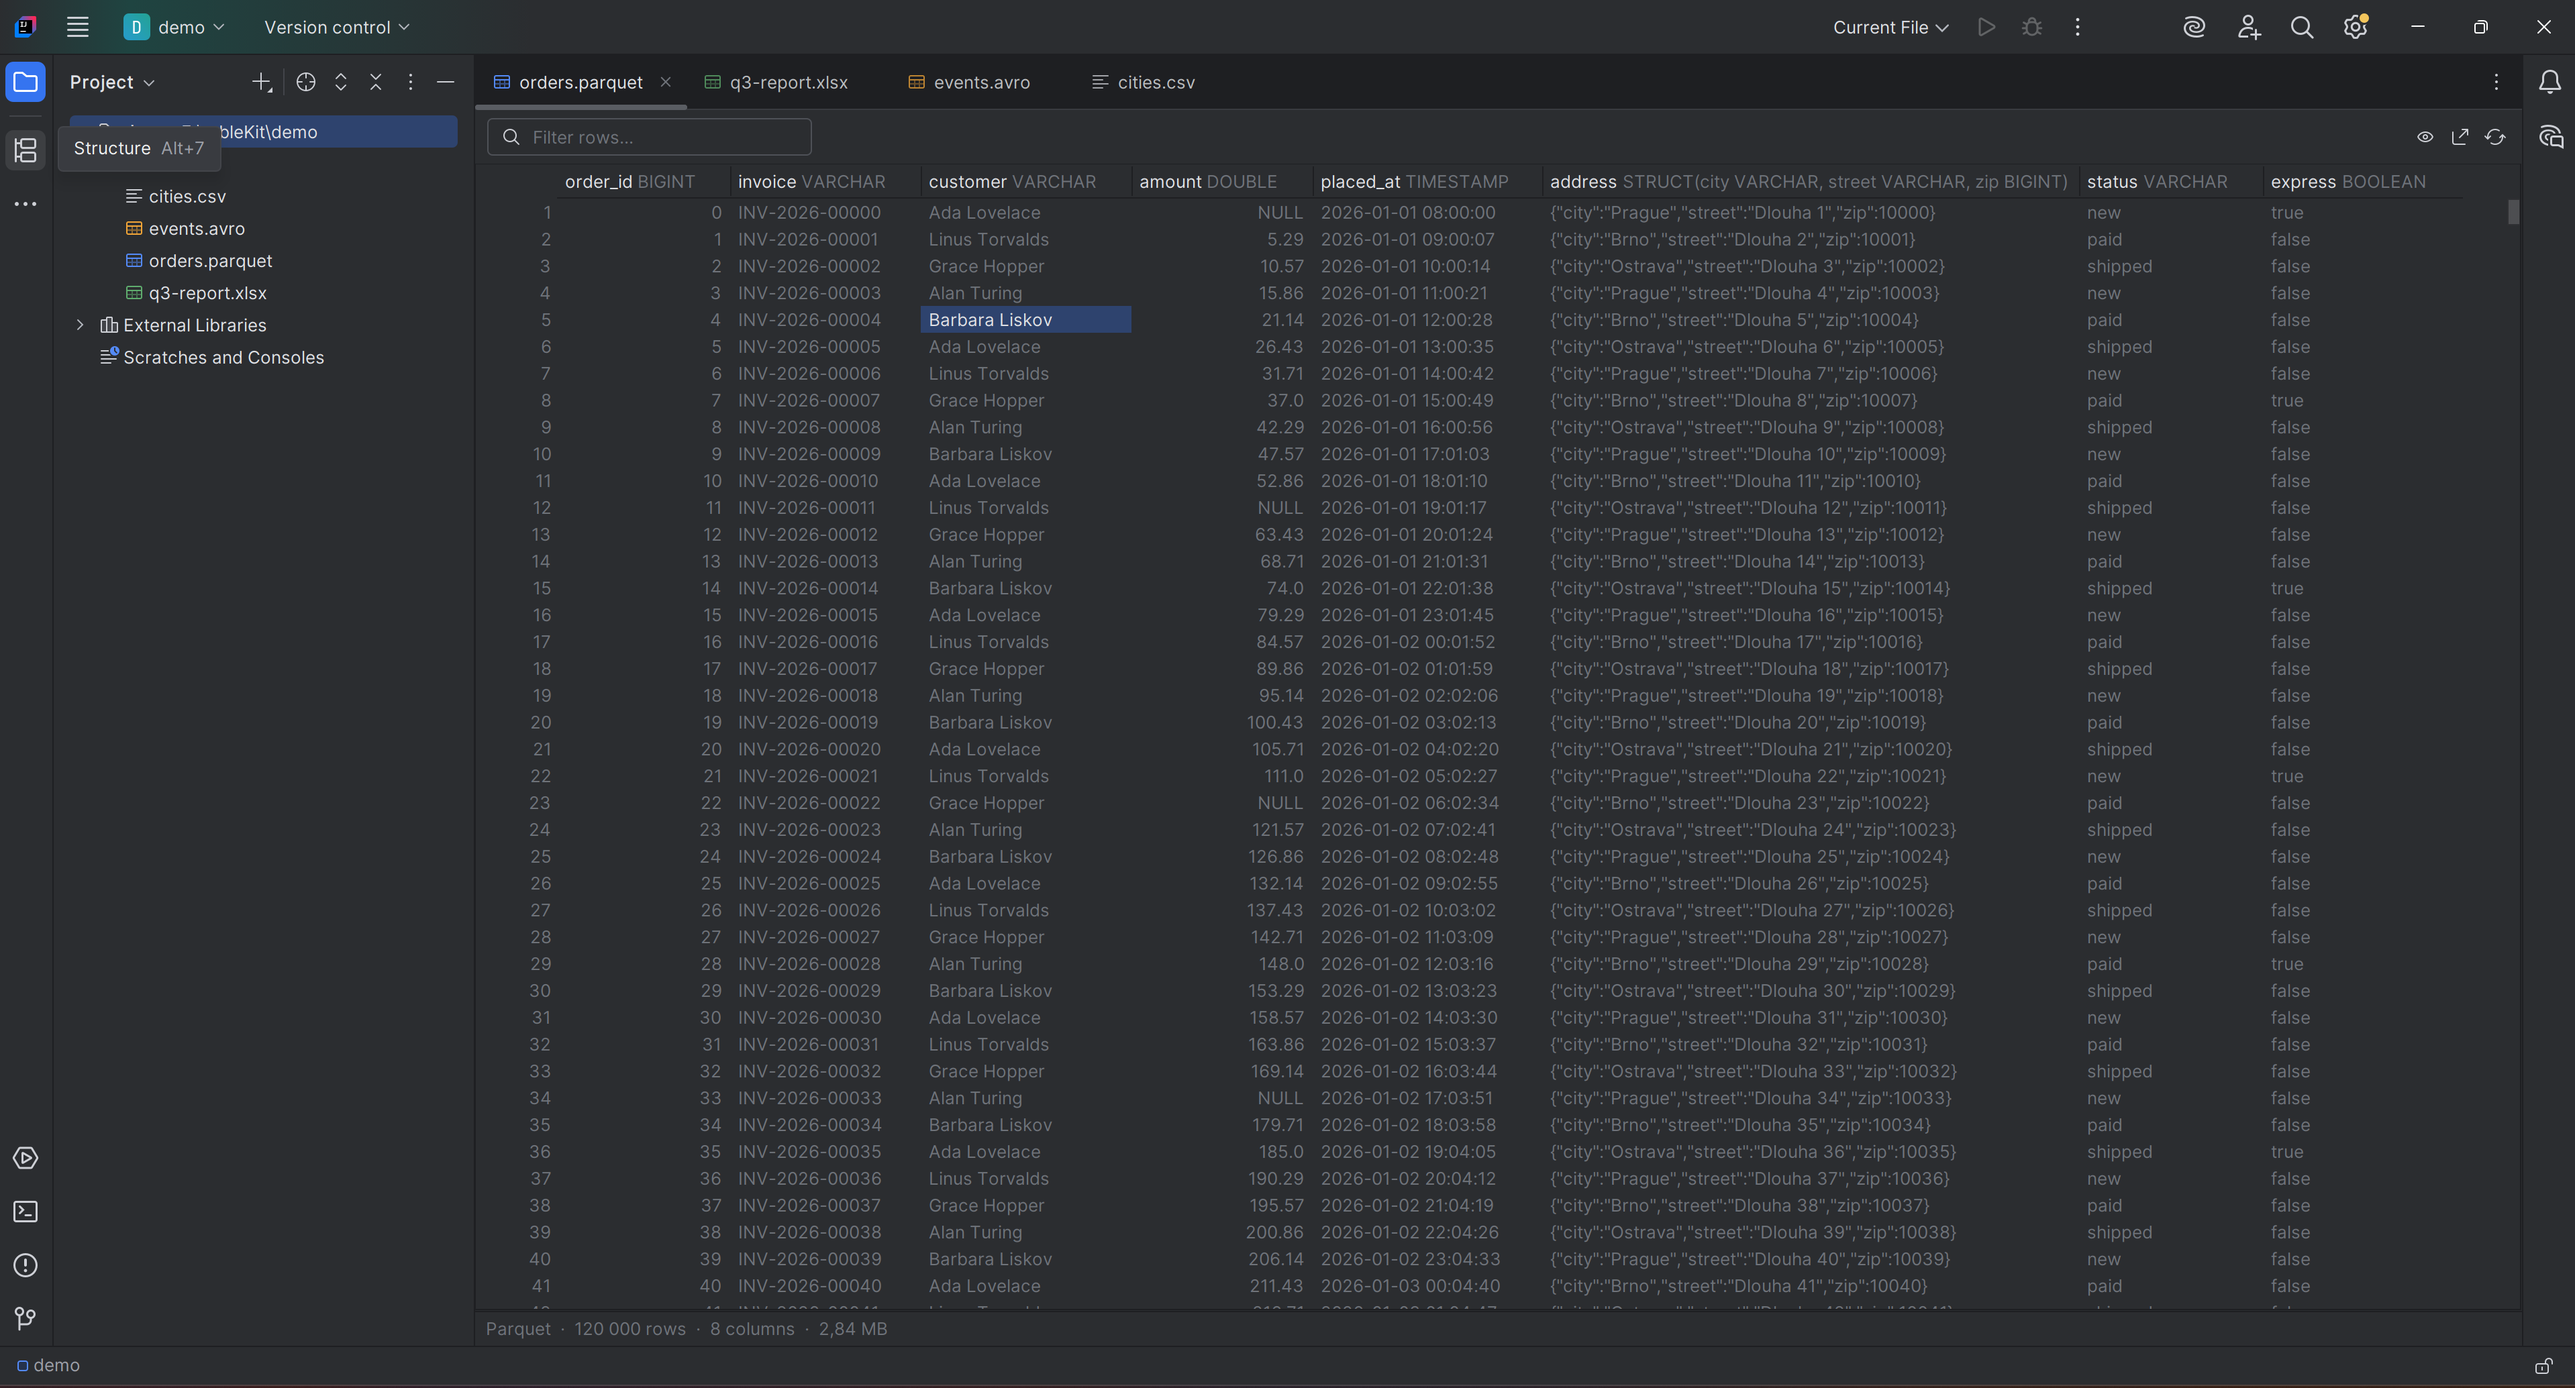
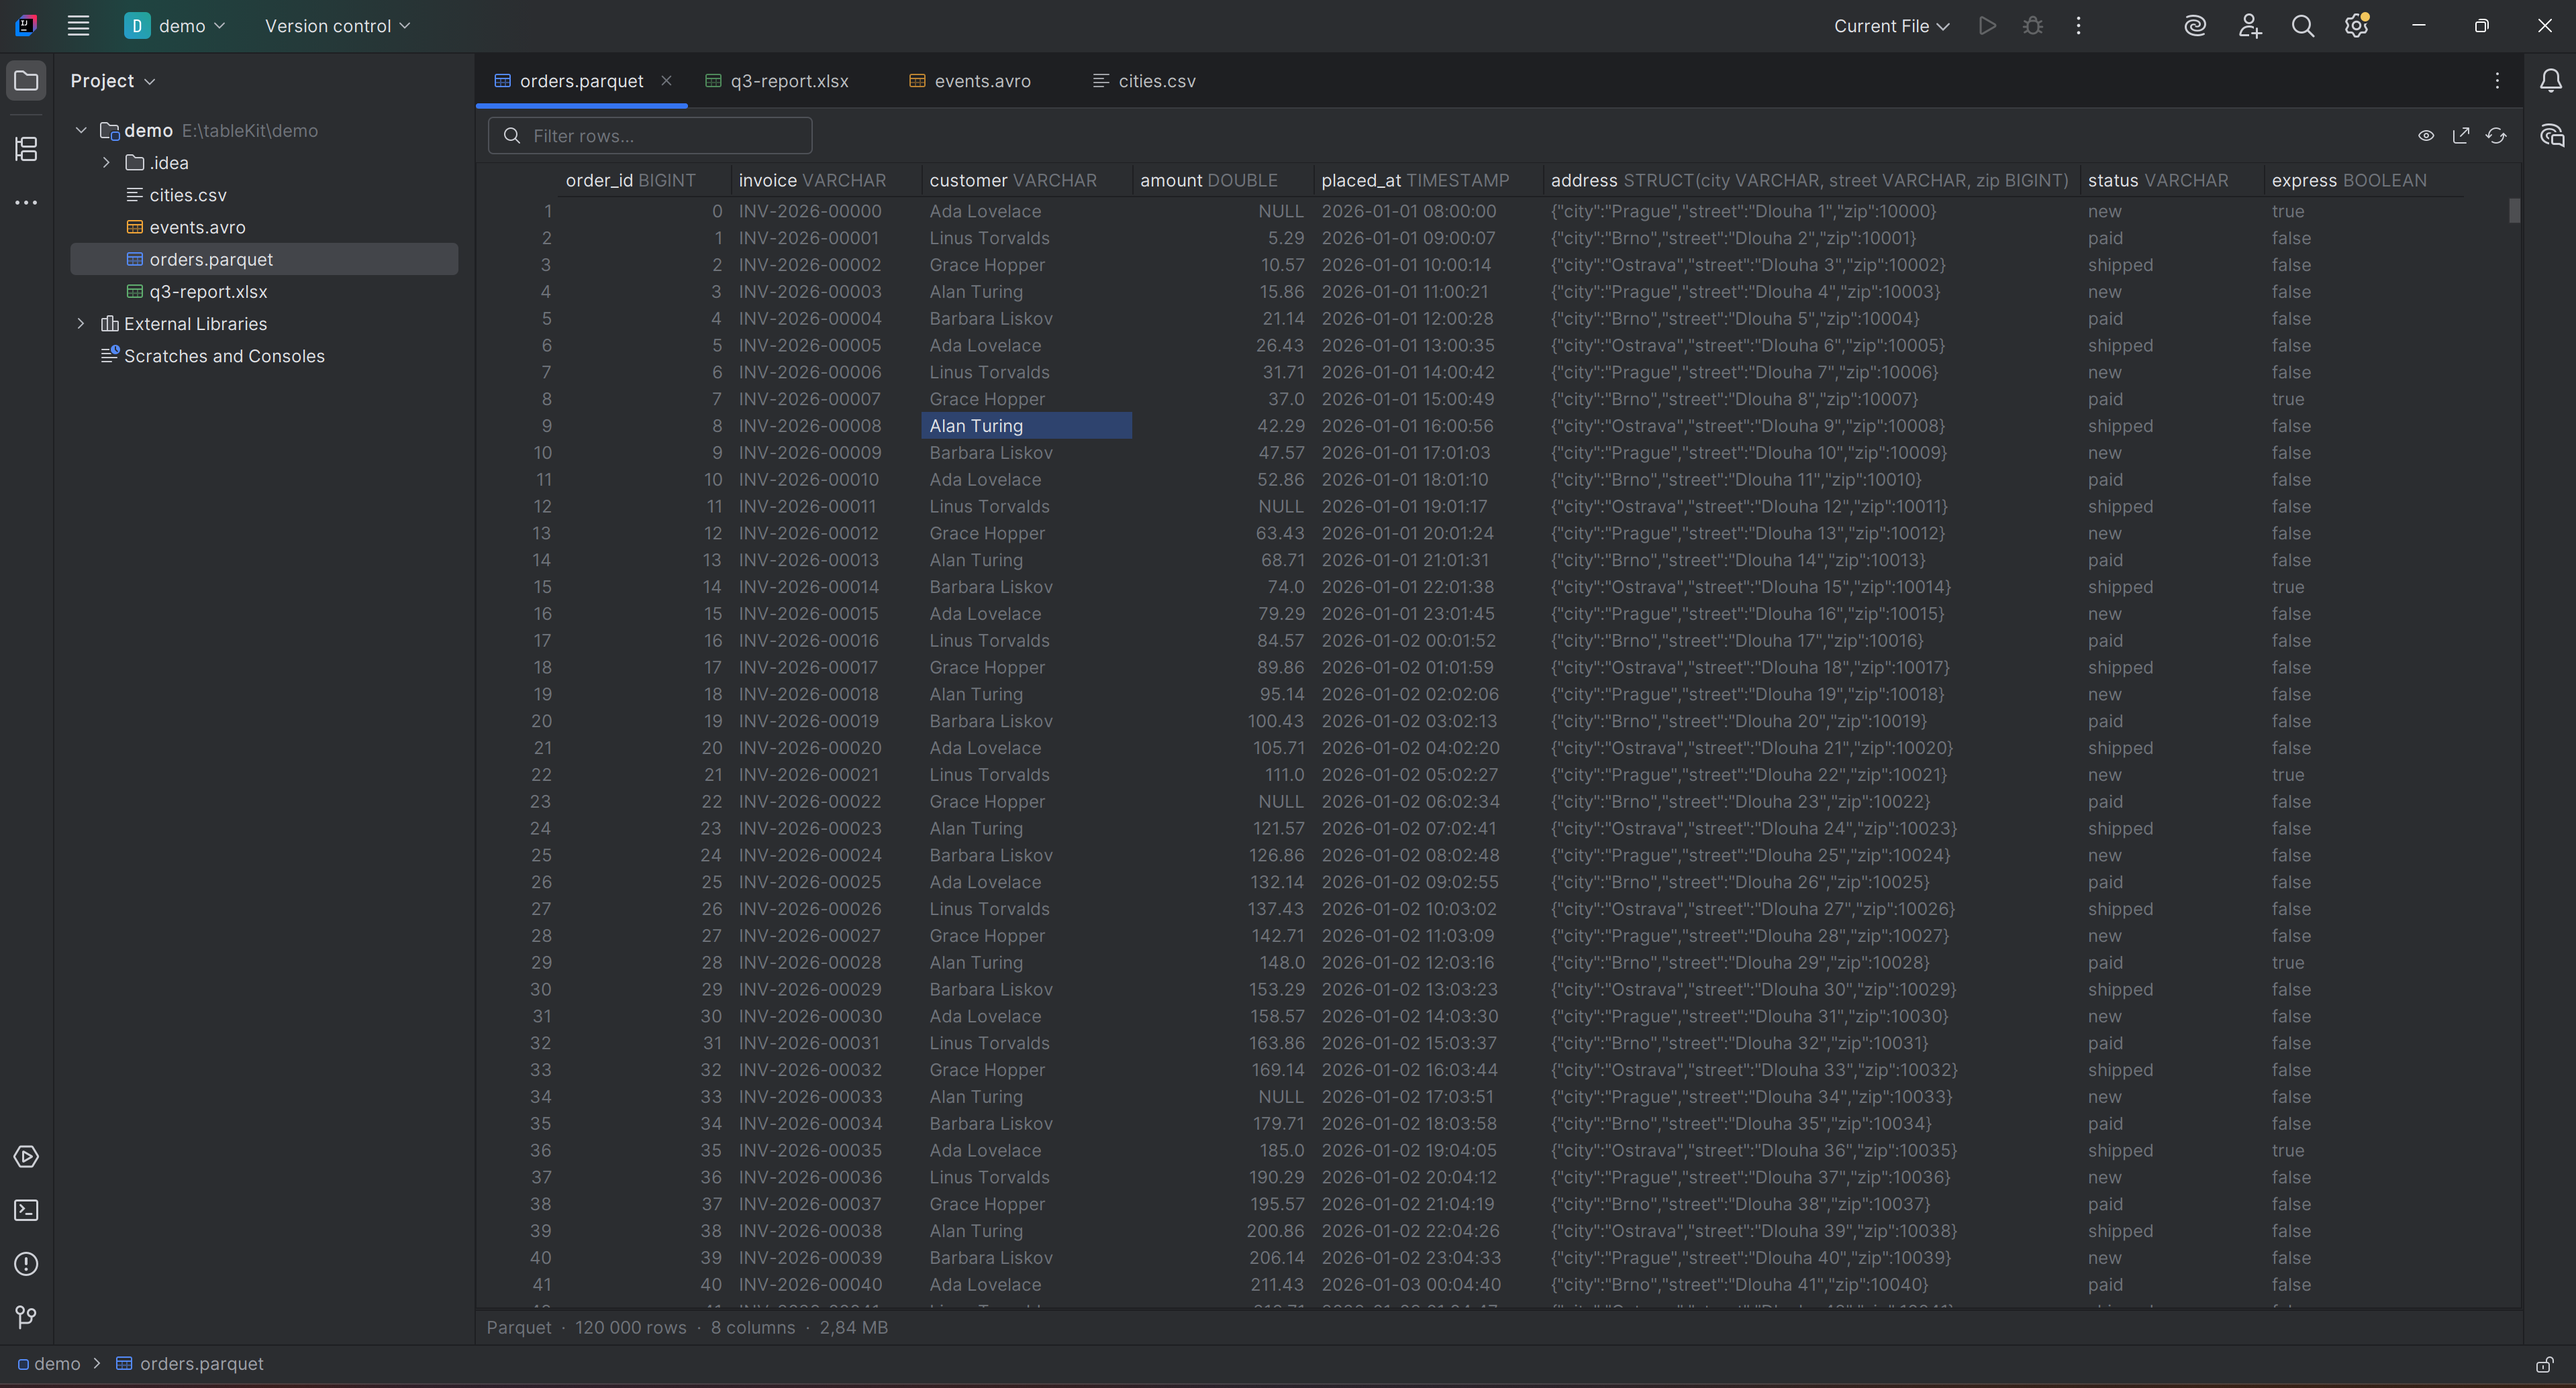
Listing pictures without the automation overlay, and a What's New
The old screenshots were captured while desktop automation was running, which
draws an orange border around the screen - it went into every one of them and
onto the Marketplace. Retaken by hand.

While checking the published page: "What's New" was blank, because nothing ever
set change-notes. It is only visible once the listing exists, which is exactly
when it is too late for the version already in review. Wired now, so 0.2.0
onwards has something to say.

CHANGELOG's Unreleased section becomes 0.1.0, which is what it is.

diff --git a/CHANGELOG.md b/CHANGELOG.md
@@ -3,7 +3,7 @@
 All notable changes to TableKit are documented here.
 The format is based on [Keep a Changelog](https://keepachangelog.com/en/1.1.0/).
 
-## [Unreleased]
+## [0.1.0] - 2026-08-13
 
 ### Added
 - **Parquet, CSV, TSV and JSON Lines viewer.** Files are queried in place by an
